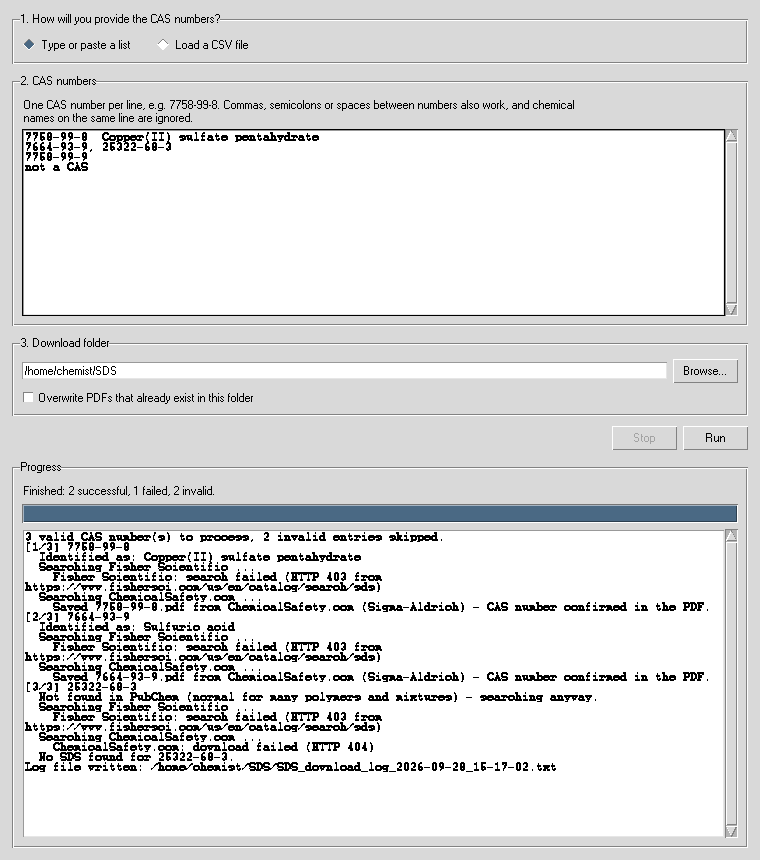
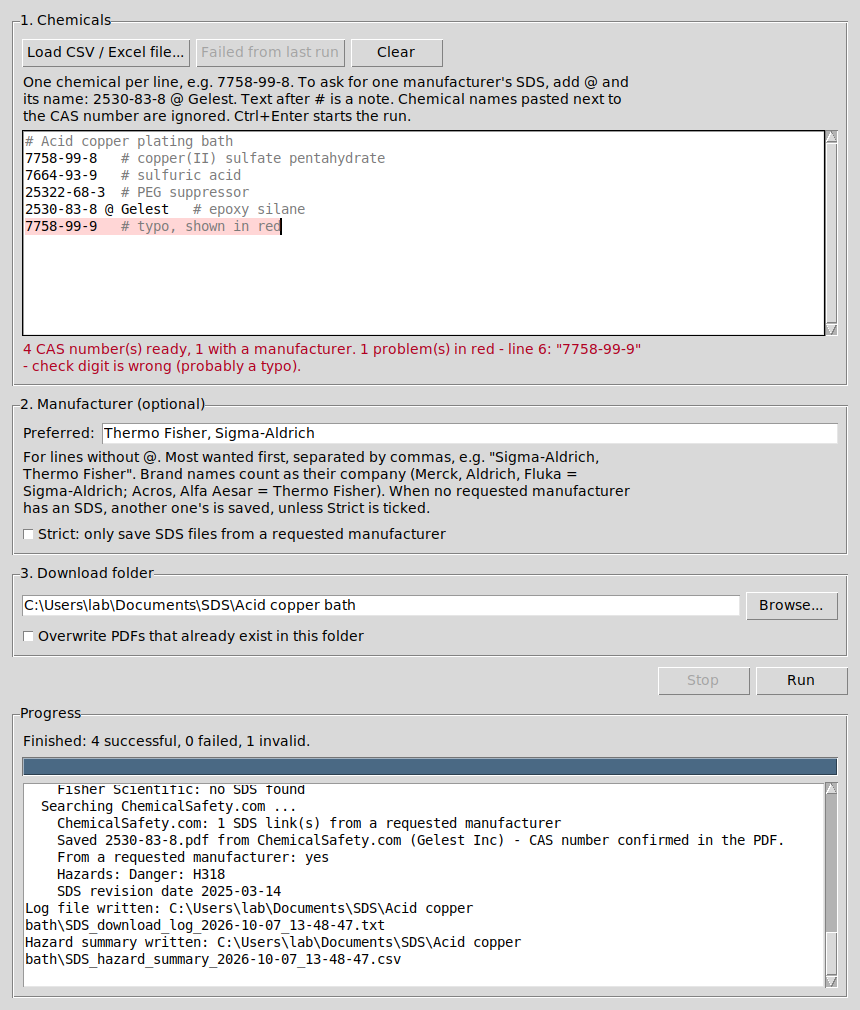
Update README screenshot to the new window
- New screenshot from a simulated offline run showing the chemical list
  with @ manufacturer, notes, a highlighted typo and the Manufacturer box
- Shorten the Strict tick box label, which was cut off at the window edge;
  its explanation moves to the help text above it
- Progress box now says 'From a requested manufacturer: yes' instead of
  repeating the whole list of requested manufacturers

Claude-Session: https://claude.ai/code/session_017QCoYN36Vz3LH4rp3RzyuZ

diff --git a/sds_fetch/gui.py b/sds_fetch/gui.py
@@ -138,12 +138,13 @@ class SdsFetchApp:
         ttk.Label(maker_frame,
                   text="For lines without @. Most wanted first, separated by commas, e.g. "
                        "\"Sigma-Aldrich, Thermo Fisher\". Brand names count as their company "
-                       "(Merck, Aldrich, Fluka = Sigma-Aldrich; Acros, Alfa Aesar = Thermo Fisher).",
+                       "(Merck, Aldrich, Fluka = Sigma-Aldrich; Acros, Alfa Aesar = Thermo Fisher). "
+                       "When no requested manufacturer has an SDS, another one's is saved, unless "
+                       "Strict is ticked.",
                   wraplength=620, justify="left").grid(row=1, column=0, columnspan=2, sticky="w", pady=(4, 0))
         self.strict_check = ttk.Checkbutton(
             maker_frame, variable=self.strict,
-            text="Strict: only save SDS files from a requested manufacturer "
-                 "(otherwise another manufacturer's SDS is saved when none is found)")
+            text="Strict: only save SDS files from a requested manufacturer")
         self.strict_check.grid(row=2, column=0, columnspan=2, sticky="w", pady=(6, 0))
 
         # --- 3. Download folder ---------------------------------------------

diff --git a/sds_fetch/downloader.py b/sds_fetch/downloader.py
@@ -362,7 +362,7 @@ def process_one_cas(
                    + (f" ({candidate.supplier})" if candidate.supplier else "")
                    + " - CAS number confirmed in the PDF.")
             if preferences:
-                report(f"    From {result.requested}: {result.maker_match}")
+                report(f"    From a requested manufacturer: {result.maker_match}")
             result.info = read_sds_info(text)
             report_sds_info(result, report)
             return True

diff --git a/README.md b/README.md
@@ -4,7 +4,7 @@ A small desktop program that downloads Safety Data Sheet (SDS) PDFs for a list o
 
 ![SDS Fetch window](docs/screenshot.png)
 
-*Screenshot from a simulated run with offline test data.*
+*Screenshot from a simulated run with offline test data: an acid copper bath list with one manufacturer request (`@ Gelest`), preferred manufacturers, and a mistyped CAS number highlighted in red.*
 
 ## Installation
 
